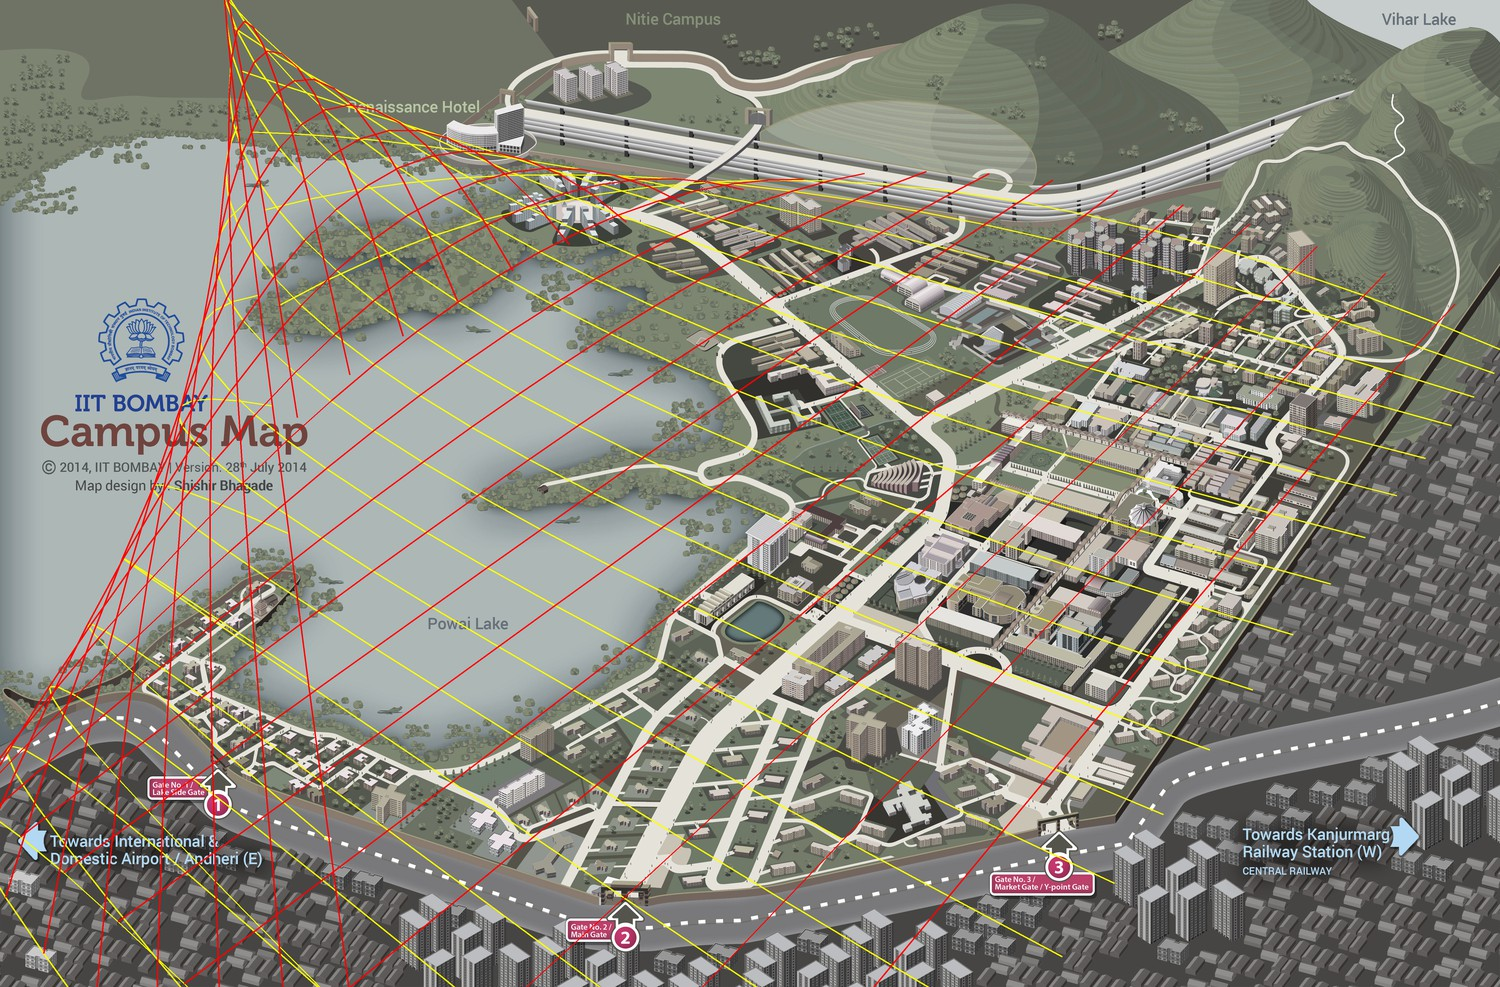
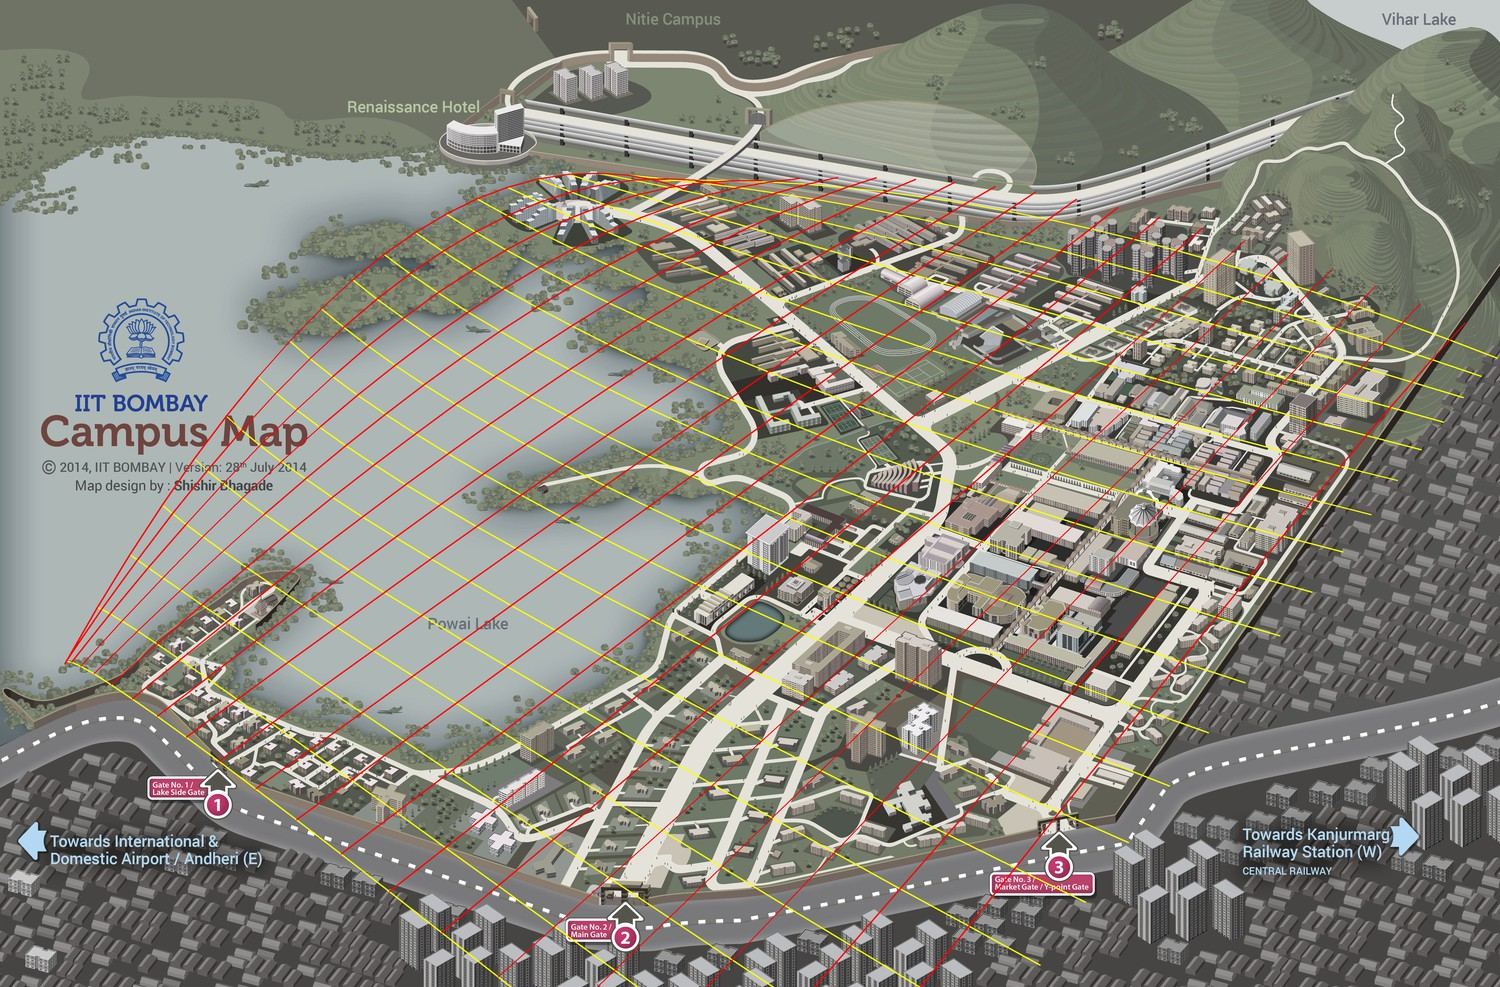
Fix limits of contour

diff --git a/mapmodel.py b/mapmodel.py
@@ -145,8 +145,8 @@ ERROR_COLOR_VALID = (255, 0, 0, 255)
 
 CONST_LAT_COLOR = (255, 255, 0, 255)
 CONST_LNG_COLOR = (255, 0, 0, 255)
-LOWER_LEFT = (19.121891, 72.894558)
-UPPER_RIGHT = (19.139488, 72.920125)
+LOWER_LEFT = (19.124, 72.904)
+UPPER_RIGHT = (19.139, 72.920)
 DIVISIONS_H = 20;
 DIVISIONS_V = 20;
 
